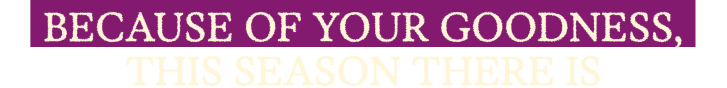
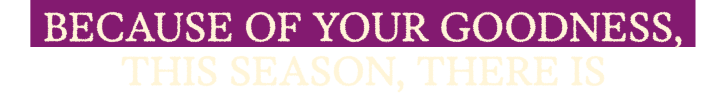
Update the Because-of-your-goodness lockup with the added comma
Claude-Session: https://claude.ai/code/session_01EJyiCdUVCtBFpaJXayJR8v

Changed region(s): [[0.0303, 0.1136, 0.9684, 0.5455], [0.1513, 0.5909, 0.8473, 0.9773], [0.5144, 0.25, 0.5447, 0.2727]]

diff --git a/email/index.html b/email/index.html
@@ -146,7 +146,7 @@ u + .body .gm-diff { background:#000; mix-blend-mode:difference }
             <div class="gm-screen"><div class="gm-diff"><p class="t m30" style="Margin:0 0 27px;mso-line-height-rule:exactly;font-family:helvetica, 'helvetica neue', arial, verdana, sans-serif;line-height:17px;letter-spacing:0;font-weight:400;color:#fff5d8;font-size:14px">This holiday season, we are proud to make a donation in your name to the World Food Programme and Feeding America, two organizations working to bring nourishment and care to those <span style="white-space:nowrap">who&nbsp;need&nbsp;it&nbsp;most.</span></p></div></div>
             <table cellpadding="0" cellspacing="0" align="center" role="presentation" style="mso-table-lspace:0pt;mso-table-rspace:0pt;border-collapse:collapse;border-spacing:0px">
              <tr>
-              <td class="s20" align="center" style="padding:0 0 31px;Margin:0;font-size:0"><img class="i208" src="images/lockup-because.png" alt="Because of your goodness, this season there is…" width="214" style="display:block;width:214px;max-width:100%;height:auto;font-size:14px;color:#fff5d8;border:0;outline:none;text-decoration:none"></td>
+              <td class="s20" align="center" style="padding:0 0 31px;Margin:0;font-size:0"><img class="i208" src="images/lockup-because.png" alt="Because of your goodness, this season, there is…" width="214" style="display:block;width:214px;max-width:100%;height:auto;font-size:14px;color:#fff5d8;border:0;outline:none;text-decoration:none"></td>
              </tr>
              <tr>
               <td align="center" style="padding:0;Margin:0;font-size:0"><img class="i191" src="https://fcetioh.stripocdn.email/content/guids/CABINET_0accc73189b1af1fe52f40ec5e8c17fe4d7eea9a4fdfcc6ef435d49ac88b72da/images/hope_on_the_table.png" alt="Hope on the Table" width="222" style="display:block;width:222px;max-width:100%;height:auto;font-size:24px;color:#fff5d8;border:0;outline:none;text-decoration:none"></td>
